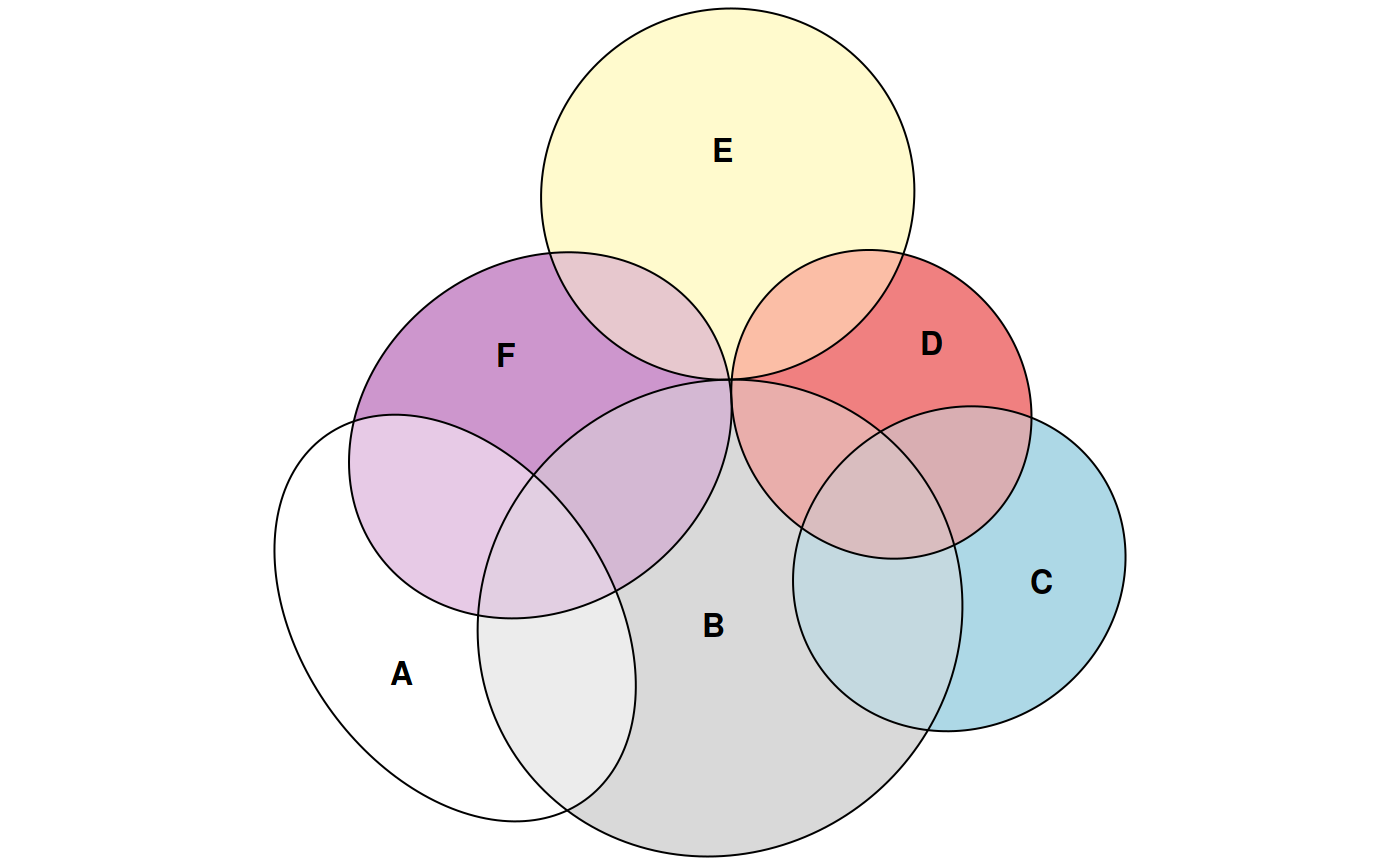
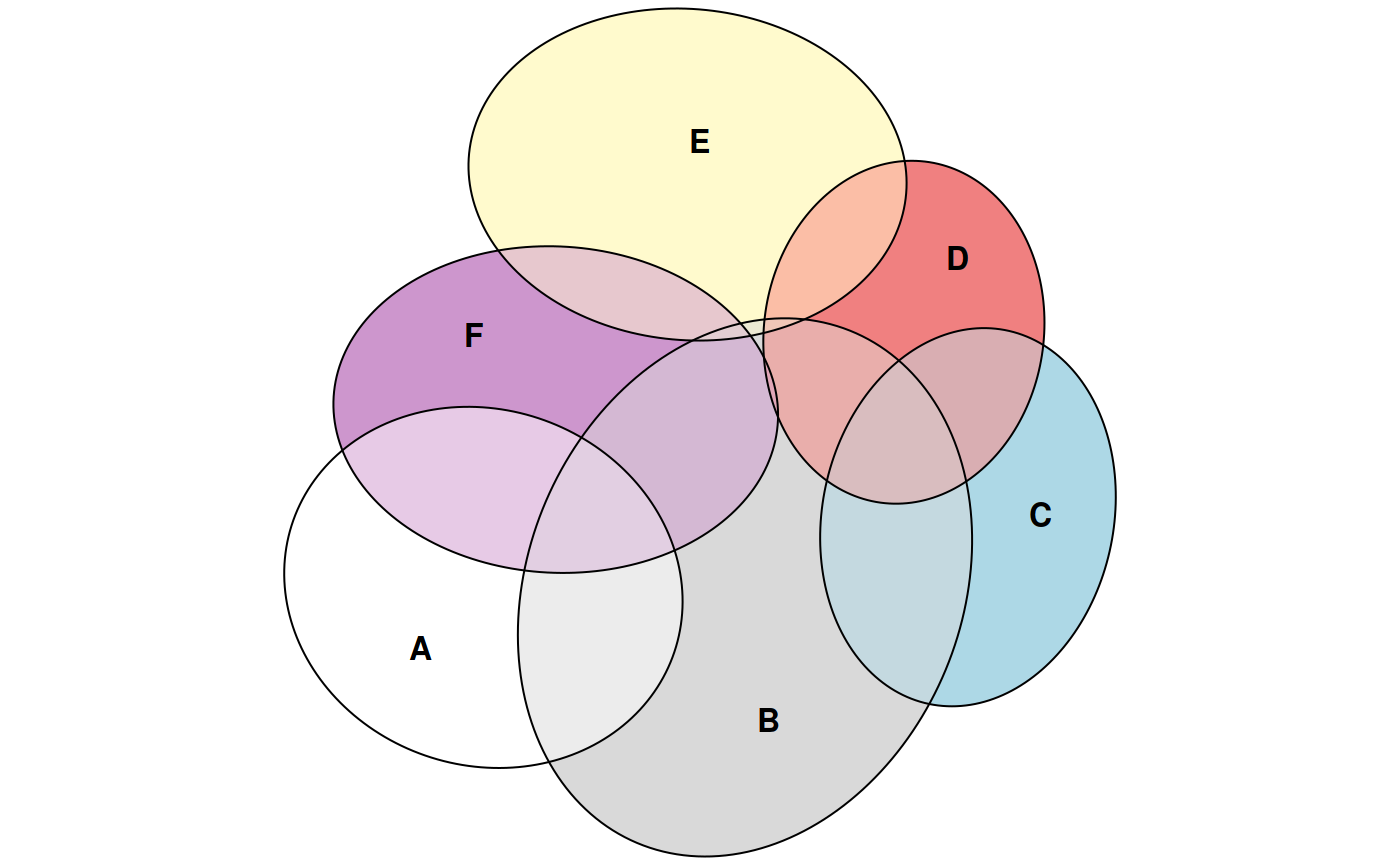
Update site

diff --git a/docs/index.html b/docs/index.html
@@ -127,9 +127,9 @@
 <a class="sourceLine" id="cb3-7" title="7">             <span class="dt">shape =</span> <span class="st">"ellipse"</span>)</a></code></pre></div>
 <p>We can inspect the goodness-of-fit metrics <em>diagError</em> and <em>stress</em> for the solution,</p>
 <div class="sourceCode" id="cb4"><pre class="sourceCode r"><code class="sourceCode r"><a class="sourceLine" id="cb4-1" title="1">fit<span class="op">$</span>stress</a>
-<a class="sourceLine" id="cb4-2" title="2"><span class="co">#&gt; [1] 0.0007033581</span></a>
+<a class="sourceLine" id="cb4-2" title="2"><span class="co">#&gt; [1] 5.30125e-05</span></a>
 <a class="sourceLine" id="cb4-3" title="3">fit<span class="op">$</span>diagError</a>
-<a class="sourceLine" id="cb4-4" title="4"><span class="co">#&gt; [1] 0.004512876</span></a></code></pre></div>
+<a class="sourceLine" id="cb4-4" title="4"><span class="co">#&gt; [1] 0.001230798</span></a></code></pre></div>
 <p>and plot it</p>
 <div class="sourceCode" id="cb5"><pre class="sourceCode r"><code class="sourceCode r"><a class="sourceLine" id="cb5-1" title="1"><span class="kw">plot</span>(fit)</a></code></pre></div>
 <p><img src="reference/figures/README-plot_method-1.png" width="700"></p>

diff --git a/NEWS.md b/NEWS.md
@@ -1,11 +1,13 @@
 # eulerr 4.1.0.9000
 
 ## New features
+
 * `error_plot()` is a new function that offers diagnostic plots of
 fits from `euler()`, letting the user visualize the error in the 
 resulting Euler diagram.
 
 ## Major changes
+
 * The work horse of `euler()` has now been parallalized, which
 should lead to considerable performance gains when large combinations
 are given.
